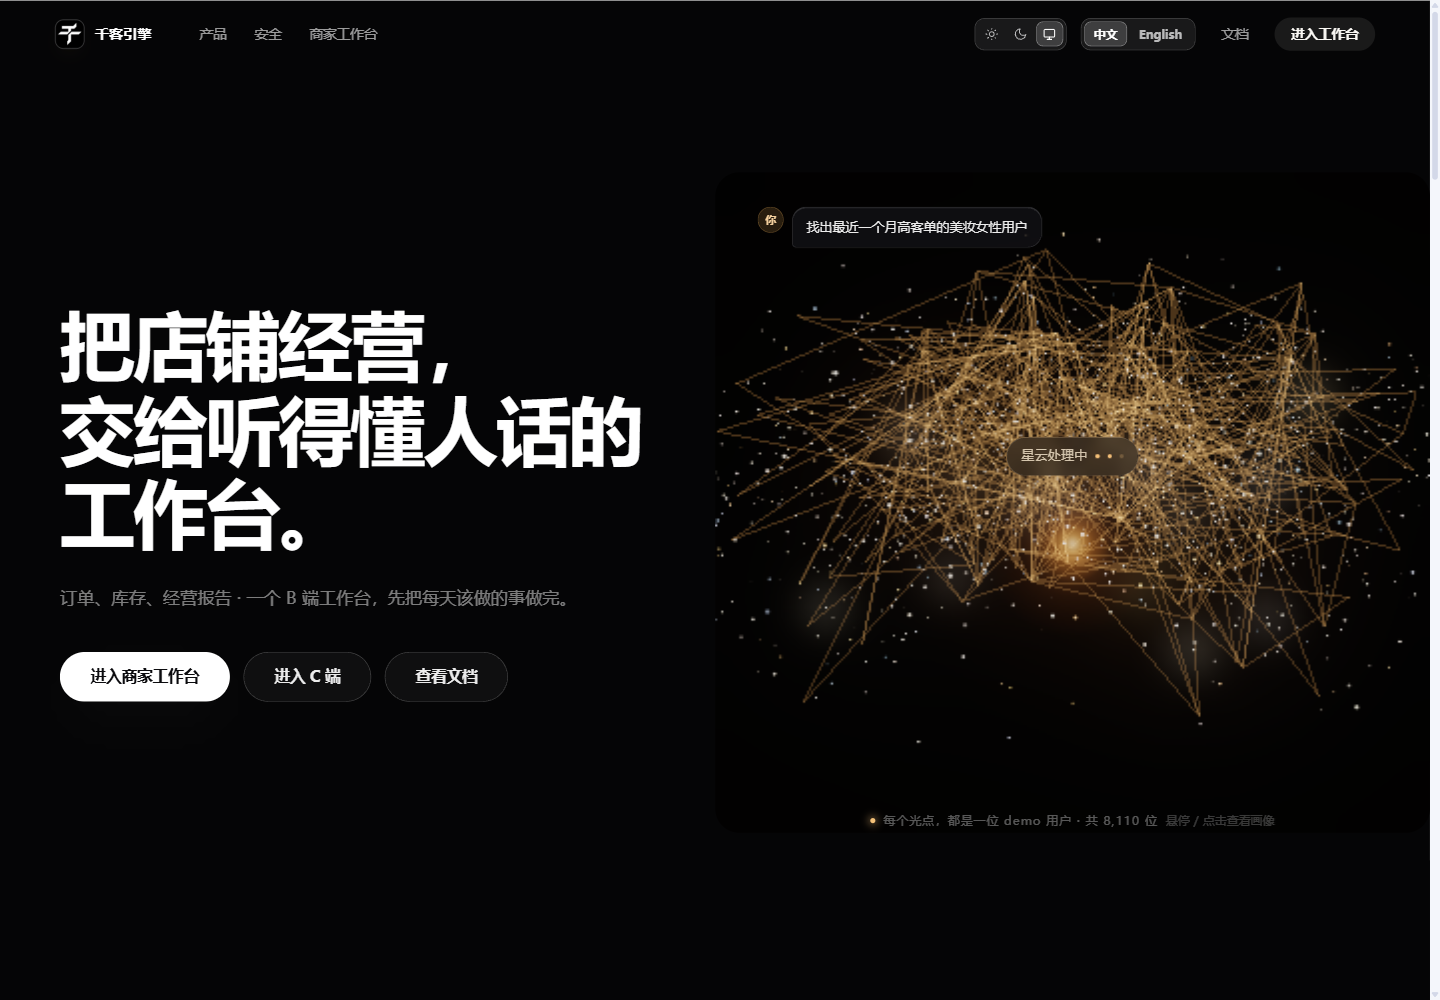
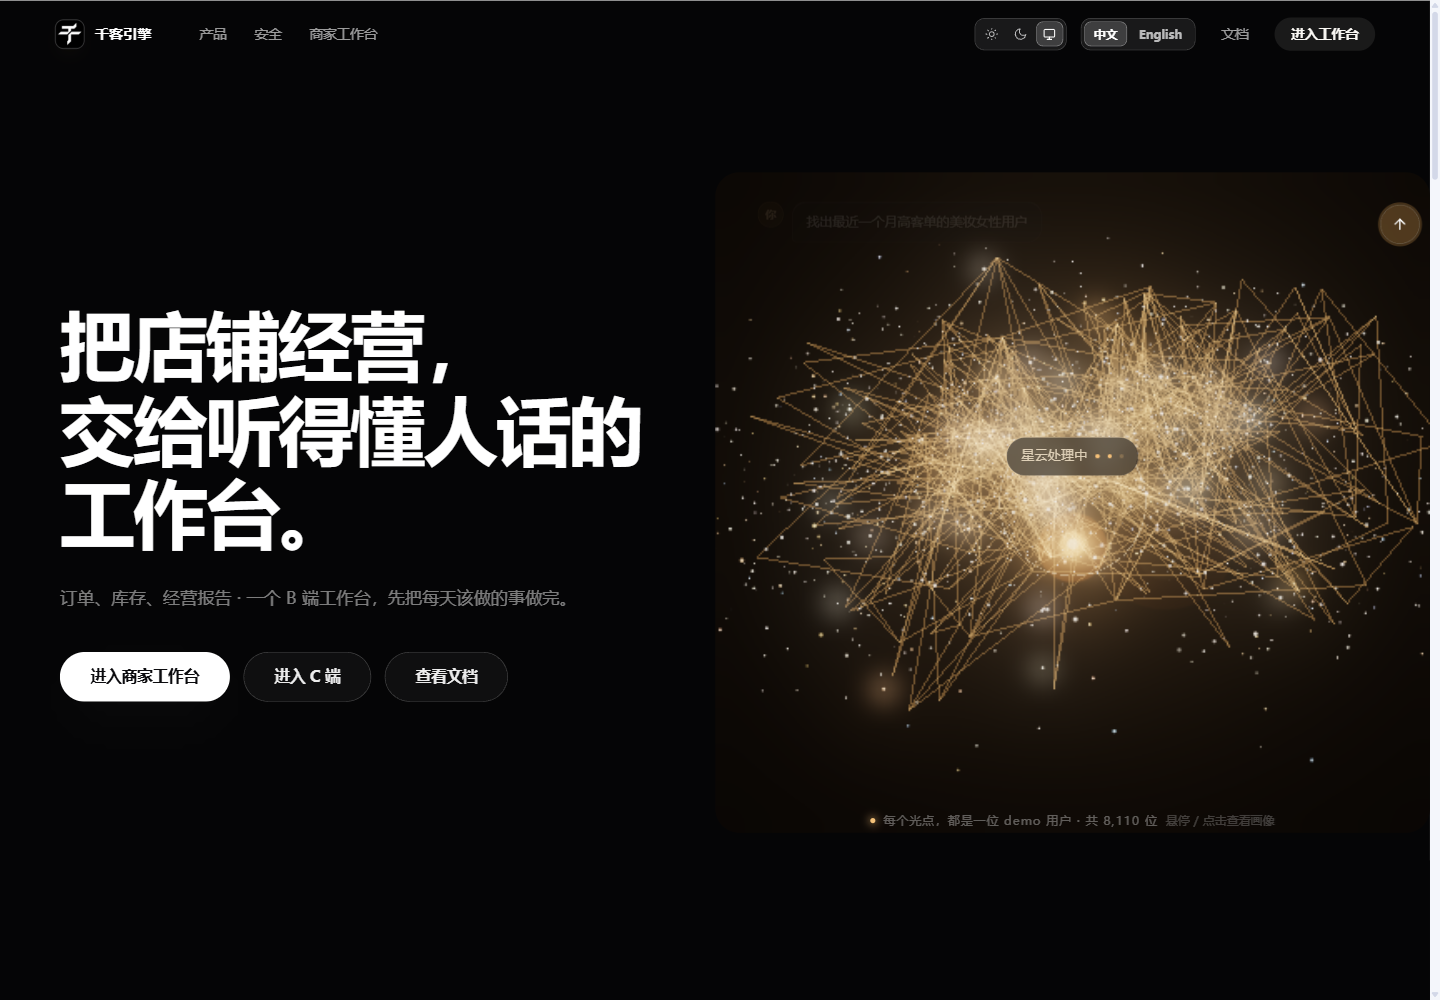
fix(ui): remove canvas gradients and guard IME sends

Changed region(s): [[0.5, 0.186, 1.0, 0.744], [0.9375, 0.186, 1.0, 0.248]]

diff --git a/web/src/components/landing/HeroNebula.vue b/web/src/components/landing/HeroNebula.vue
@@ -113,17 +113,21 @@ const easeOut = (p) => 1 - Math.pow(1 - clamp(p, 0, 1), 3);
 
 /* ---------------- 工具：纹理 ---------------- */
 function makeGlowTexture(inner = "rgba(255,255,255,1)", mid = "rgba(255,214,150,0.5)") {
+  // 不使用 Canvas 渐变：用两层纯色圆模拟柔光。
   const size = 256;
   const c = document.createElement("canvas");
   c.width = c.height = size;
   const g = c.getContext("2d");
-  const grad = g.createRadialGradient(size / 2, size / 2, 0, size / 2, size / 2, size / 2);
-  grad.addColorStop(0, inner);
-  grad.addColorStop(0.25, mid);
-  grad.addColorStop(0.55, "rgba(245,179,90,0.18)");
-  grad.addColorStop(1, "rgba(245,179,90,0)");
-  g.fillStyle = grad;
-  g.fillRect(0, 0, size, size);
+  g.clearRect(0, 0, size, size);
+  // 只保留小范围纯色核心，避免 Sprite 放大后出现整圈硬边。
+  g.fillStyle = mid;
+  g.beginPath();
+  g.arc(size / 2, size / 2, size * 0.12, 0, Math.PI * 2);
+  g.fill();
+  g.fillStyle = inner;
+  g.beginPath();
+  g.arc(size / 2, size / 2, size * 0.05, 0, Math.PI * 2);
+  g.fill();
   const tex = new THREE.CanvasTexture(c);
   tex.colorSpace = THREE.SRGBColorSpace;
   tex.needsUpdate = true;
@@ -131,17 +135,24 @@ function makeGlowTexture(inner = "rgba(255,255,255,1)", mid = "rgba(255,214,150,
 }
 
 function makePointTexture() {
+  // 纯色圆点：外圈淡金 + 内圈白，不使用 Canvas 渐变。
   const size = 128;
   const c = document.createElement("canvas");
   c.width = c.height = size;
   const g = c.getContext("2d");
-  const grad = g.createRadialGradient(size / 2, size / 2, 0, size / 2, size / 2, size / 2);
-  grad.addColorStop(0, "rgba(255,255,255,1)");
-  grad.addColorStop(0.35, "rgba(255,246,230,0.9)");
-  grad.addColorStop(0.7, "rgba(255,220,175,0.25)");
-  grad.addColorStop(1, "rgba(255,220,175,0)");
-  g.fillStyle = grad;
-  g.fillRect(0, 0, size, size);
+  g.clearRect(0, 0, size, size);
+  g.fillStyle = "rgba(255,220,175,0.30)";
+  g.beginPath();
+  g.arc(size / 2, size / 2, size * 0.46, 0, Math.PI * 2);
+  g.fill();
+  g.fillStyle = "rgba(255,246,230,0.9)";
+  g.beginPath();
+  g.arc(size / 2, size / 2, size * 0.22, 0, Math.PI * 2);
+  g.fill();
+  g.fillStyle = "rgba(255,255,255,1)";
+  g.beginPath();
+  g.arc(size / 2, size / 2, size * 0.10, 0, Math.PI * 2);
+  g.fill();
   const tex = new THREE.CanvasTexture(c);
   tex.colorSpace = THREE.SRGBColorSpace;
   return tex;
@@ -848,14 +859,18 @@ function renderFallback(ts) {
   const cx = w * 0.5;
   const cy = h * 0.5;
   const glowR = Math.min(w, h) * (0.34 + absorbPulse * 0.1);
-  const g = ctx2d.createRadialGradient(cx, cy, 0, cx, cy, glowR);
-  g.addColorStop(0, `rgba(255,248,232,${0.9 + absorbPulse * 0.1})`);
-  g.addColorStop(0.2, "rgba(255,226,180,0.5)");
-  g.addColorStop(0.5, "rgba(245,179,90,0.14)");
-  g.addColorStop(1, "rgba(245,179,90,0)");
-  ctx2d.fillStyle = g;
+  // 纯色同心圆替代径向渐变：保留中心光感，不调用 Canvas gradient API。
+  ctx2d.fillStyle = "rgba(245,179,90,0.08)";
   ctx2d.beginPath();
   ctx2d.arc(cx, cy, glowR, 0, TAU);
+  ctx2d.fill();
+  ctx2d.fillStyle = `rgba(255,226,180,${0.12 + absorbPulse * 0.04})`;
+  ctx2d.beginPath();
+  ctx2d.arc(cx, cy, glowR * 0.46, 0, TAU);
+  ctx2d.fill();
+  ctx2d.fillStyle = `rgba(255,248,232,${0.16 + absorbPulse * 0.05})`;
+  ctx2d.beginPath();
+  ctx2d.arc(cx, cy, glowR * 0.16, 0, TAU);
   ctx2d.fill();
 
   ctx2d.strokeStyle = `rgba(245,192,122,${0.14 + absorbPulse * 0.1})`;

diff --git a/web/src/views/CApp.vue b/web/src/views/CApp.vue
@@ -363,6 +363,8 @@ const lastStoreSend = ref(null);
 const copyTip = ref("");
 const showJumpBottom = ref(false);
 const composerFocused = ref(false);
+let composerComposing = false;
+let composerCompositionEndAt = 0;
 const avatarFileInput = ref(null);
 const avatarTarget = ref("companion");
 const avatarBusy = ref("");
@@ -1179,7 +1181,26 @@ function selectMention(option) {
   });
 }
 
+function onComposerCompositionStart() {
+  composerComposing = true;
+}
+
+function onComposerCompositionEnd() {
+  composerComposing = false;
+  composerCompositionEndAt = Date.now();
+}
+
+function isComposerComposing(event) {
+  return Boolean(
+    composerComposing ||
+      event?.isComposing ||
+      (composerCompositionEndAt && Date.now() - composerCompositionEndAt < 100)
+  );
+}
+
 function onComposerKeydown(event) {
+  // 拼音/日文输入法选字阶段不发送，也不消费候选框的 Enter。
+  if (isComposerComposing(event)) return;
   if (mentionOpen.value && mentionOptions.value.length) {
     if (event.key === "ArrowDown") {
       event.preventDefault();
@@ -3541,6 +3562,8 @@ onBeforeUnmount(() => {
                 :placeholder="activeThread.kind === 'group' ? `在${activeThread.name}里发消息，可 @ 成员` : (activeId === 'companion' ? '想聊什么，或者要买什么' : '问商品、活动或售后')"
                 @focus="onComposerFocus"
                 @blur="onComposerBlur"
+                @compositionstart="onComposerCompositionStart"
+                @compositionend="onComposerCompositionEnd"
                 @input="onComposerInput"
                 @keydown="onComposerKeydown"
               />

diff --git a/web/src/views/Chat.vue b/web/src/views/Chat.vue
@@ -680,7 +680,22 @@ function useExample(q) {
   question.value = q;
 }
 
+let chatComposing = false;
+let chatCompositionEndAt = 0;
+
+function onChatCompositionStart() {
+  chatComposing = true;
+}
+
+function onChatCompositionEnd() {
+  chatComposing = false;
+  chatCompositionEndAt = Date.now();
+}
+
 function onKeydown(e) {
+  if (chatComposing || e.isComposing || (chatCompositionEndAt && Date.now() - chatCompositionEndAt < 100)) {
+    return;
+  }
   if ((e.ctrlKey || e.metaKey) && e.key === "Enter") {
     e.preventDefault();
     submit();
@@ -773,7 +788,9 @@ onBeforeUnmount(() => {
           :disabled="sending || !canAsk"
           :maxlength="demoMode ? DEMO_MAX_QUESTION : undefined"
           :placeholder="canAsk ? '输入你的问题…' : '当前账号没有提问能力'"
-          @keydown="onKeydown"
+          @compositionstart="onChatCompositionStart"
+        @compositionend="onChatCompositionEnd"
+        @keydown="onKeydown"
         ></textarea>
         <span class="composer-shortcut">Ctrl / ⌘ + Enter 发送</span>
       </div>

diff --git a/docs/e2e/c-end-codex-ui-blockers-recheck.md b/docs/e2e/c-end-codex-ui-blockers-recheck.md
@@ -1,0 +1,65 @@
+# Codex UI 验收阻断项复验（C 端范围）
+
+日期：2026-11-14  
+基线：Codex 指出的 agent@84ef791 验收结论
+
+## 已修
+
+### 2. Landing 星云 Canvas 渐变
+
+```text
+web/src/components/landing/HeroNebula.vue
+  makeGlowTexture / makePointTexture / 2D fallback 光晕
+  createRadialGradient / addColorStop → 纯色同心圆
+```
+
+验证：
+
+```text
+Playwright 注入 CanvasRenderingContext2D 计数：
+  createRadialGradient/createLinearGradient = 0
+CSS background-image gradient = false
+```
+
+截图：docs/design/landing-no-gradient-desktop.png
+
+### 5. 输入法组词误发
+
+```text
+CApp：
+  compositionstart/end 状态 + isComposing + 100ms 尾窗
+  Enter 在组词阶段直接 return，不发送/不清空草稿
+
+Chat.vue：
+  同样的 composition 守卫，Ctrl/⌘+Enter 组词阶段不提交
+```
+
+验证：
+
+```text
+CApp 390px：
+  compositionstart 后按 Enter
+  输入框仍为「测试」
+  消息列表数量 0
+  compositionend + 延迟后 Enter 可正常发送（草稿清空）
+```
+
+## 不在本轮 C 端修复范围
+
+Codex 同时列出：
+
+```text
+1. 企业端/ B 端仍存在 CSS 渐变、商品缺图占位、报告骨架渐变
+3. 桌面侧栏浮动规范不符合（B/企业端）
+4. 智能助理/账单/离线评测窄屏溢出
+```
+
+这些属于 B 端/企业管理端文件与布局，本轮 C 端 agent 未擅自改；需要主人确认归属后由对应 agent 处理。
+
+## 复验交付
+
+```text
+前端 build PASS
+Playwright：Landing Canvas 0 渐变；CApp 组词 Enter 不发送
+待 Codex 复验并补充 B/企业端整改结论
+```

diff --git a/docs/e2e/c-end-ui-no-gradient-audit.md b/docs/e2e/c-end-ui-no-gradient-audit.md
@@ -23,7 +23,7 @@
 | CMe | Hero radial-gradient → 纯色；骨架 shimmer linear-gradient → 透明度 pulse |
 | CSocial | 无渐变；删除“消息”重复标题，搜索框内移入添加按钮 |
 | CLogin | 背景双 radial-gradient → 纯色 paper |
-| Landing 官方站 | Hero/玻璃卡/按钮/遮罩/星空渐变全部改纯色（CSS 渐变 = 0） |
+| Landing 官方站 | Hero/玻璃卡/按钮/遮罩改纯色；HeroNebula Canvas 径向渐变改为纯色同心圆（CSS/Canvas 渐变均 = 0） |
 
 ## 浏览器实测
 
@@ -38,6 +38,7 @@
 /c/me      gradients = 0
 /c/login   gradients = 0
 /v2/#/home gradients = 0（含切主题/移动端）
+Landing Canvas 仪表：createRadialGradient/createLinearGradient 调用 = 0
 ```
 
 商品详情弹层额外扫描：gradients = 0。
